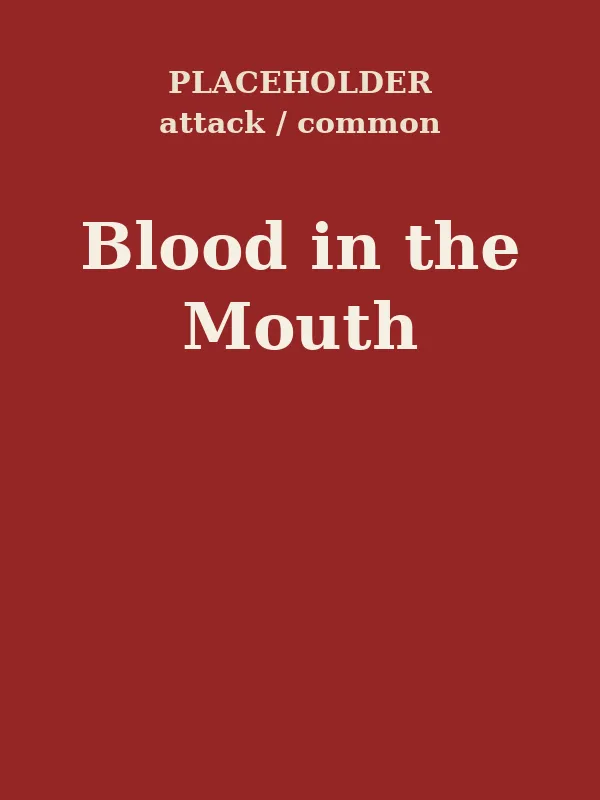
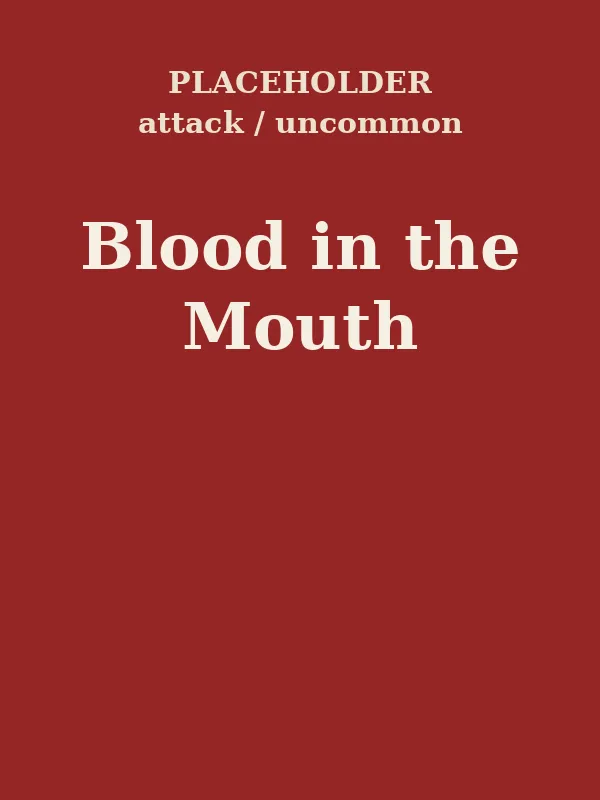
Pool 34, Producer calls 23:02 + Designer 23:18: Burn Through, Worn Grip, Ember Hide, Blood in the Mouth back to uncommon with their original numbers; Whirling Axe, Brutal Critical, Bearskin, Relentless Rage uncommon -> common; Old Scars + Ten Thousand Drills back to legendary (Drills cap 5); Read th

Changed region(s): [[0.24, 0.125, 0.63, 0.1875], [0.66, 0.125, 0.78, 0.1875]]

diff --git a/src/data.js b/src/data.js
@@ -123,7 +123,7 @@
       effects: [], power: { endTurnBlockToAll: 0.5 }, upgrade: { cost: 1 } },
     // F2 Maneuvers
     // Cost 3 (upgraded 2), not the planned 2/1: it simmed about 8 points above the other styles at cost 2 (Gamedev, Nov 3).
-    read_the_opening: { cls: 'fighter', name: 'Read the Opening', cost: 3, type: 'power', rarity: 'legendary', target: 'none',
+    read_the_opening: { cls: 'fighter', name: 'Read the Opening', cost: 3, type: 'power', rarity: 'rare', target: 'none',
       desc: 'The first hit you land each turn on a Prone or Frightened enemy deals double damage.',
       effects: [], power: { openingDouble: true }, upgrade: { cost: 2 } },
     // F3 Drill
@@ -131,9 +131,9 @@
       desc: 'Gain {0} Block. Draw {1} card.', effects: [{ t: 'block', n: 4 }, { t: 'draw', n: 1 }],
       upgrade: { effects: [{ t: 'block', n: 6 }, { t: 'draw', n: 1 }] } },
     // Cost 3 (upgraded 2), not the planned 2/1: about 6 points above the other styles at cost 2.
-    ten_thousand_drills: { cls: 'fighter', name: 'Ten Thousand Drills', cost: 3, type: 'power', rarity: 'rare', target: 'none',
-      desc: 'Whenever you play your third card in a turn, gain 1 Might (up to 4 a fight).',
-      effects: [], power: { thirdCardMight: 1, thirdCardMightCap: 4 }, upgrade: { cost: 2 } },
+    ten_thousand_drills: { cls: 'fighter', name: 'Ten Thousand Drills', cost: 3, type: 'power', rarity: 'legendary', target: 'none',
+      desc: 'Whenever you play your third card in a turn, gain 1 Might (up to 5 a fight).',
+      effects: [], power: { thirdCardMight: 1, thirdCardMightCap: 5 }, upgrade: { cost: 2 } },
     // F4 Tempo: three 0-cost commons (names and text by Lorekeeper) and the legendary. Hilt and Give Ground 5 (upgraded 7), not the
     // planned 3/5: at 3 they diluted random-pick decks (random 43.5% -> 32.7%).
     hilt_to_the_teeth: { cls: 'fighter', name: 'Hilt to the Teeth', cost: 0, type: 'attack', rarity: 'common', target: 'enemy',
@@ -143,19 +143,20 @@
     wait_for_it: { cls: 'fighter', name: 'Wait for It', cost: 0, type: 'skill', rarity: 'common', target: 'none', retain: true,
       desc: 'Draw {0} cards.', effects: [{ t: 'draw', n: 2 }],
       upgrade: { effects: [{ t: 'draw', n: 3 }] } },
-    no_wasted_motion: { cls: 'fighter', name: 'No Wasted Motion', cost: 2, type: 'power', rarity: 'legendary', target: 'none',
+    no_wasted_motion: { cls: 'fighter', name: 'No Wasted Motion', cost: 2, type: 'power', rarity: 'rare', target: 'none',
       desc: 'Whenever you play a 0-cost card, draw 1 card (up to 3 a turn).',
       effects: [], power: { zeroCostDraw: 1, zeroCostDrawPerTurn: 3 }, upgrade: { cost: 1 } },
     // F5 Old Soldier (healing)
     field_dressing: { cls: 'fighter', name: 'Field Dressing', cost: 1, type: 'skill', rarity: 'rare', target: 'none', retain: true, exhaust: true,
       desc: 'Heal {0} HP. Exhaust.', effects: [{ t: 'heal', n: 8 }], upgrade: { effects: [{ t: 'heal', n: 11 }] } },
-    old_scars: { cls: 'fighter', name: 'Old Scars', cost: 2, type: 'power', rarity: 'rare', target: 'none',
+    old_scars: { cls: 'fighter', name: 'Old Scars', cost: 2, type: 'power', rarity: 'legendary', target: 'none',
       desc: 'Whenever you heal, gain that much Block.',
       effects: [], power: { healToBlock: true }, upgrade: { cost: 1 } },
 
-    // ---- Pool 34 (card_pool_draft.md, Producer approved Nov 3 21:54; sims: Barbarian Burn Through 11, Worn Grip 14, Ember Hide 10,
-    // Blood in the Mouth 12 back as commons; Wizard Wish stays cost 3 upgraded, Time Stop 2 Energy): rarity pyramid 12 common / 9 uncommon / 6 rare /
-    // 3 legendary per hero. Old Scars and Ten Thousand Drills (cap 5 -> 4) moved legendary -> rare. Six new Fighter cards: ----
+    // ---- Pool 34 (card_pool_draft.md, Producer approved Nov 3 21:54, Producer calls 23:02): rarity pyramid 12 common /
+    // 9 uncommon / 6 rare / 3 legendary per hero. Barbarian: Whirling Axe, Brutal Critical, Bearskin, Relentless Rage down
+    // to common (Burn It Down cards stay uncommon, What's Left rare). Fighter: Read the Opening and No Wasted Motion down to
+    // rare (weakest legendaries in random-pick decks). Wizard: Wish cost 3 both ways, Time Stop 2 Energy + Retain (Designer 23:18). Six new Fighter cards: ----
     sweeping_attack: { cls: 'fighter', name: 'Sweeping Attack', cost: 1, type: 'attack', rarity: 'common', target: 'enemy',
       desc: 'Deal {0} damage. Deal {1} damage to a random enemy.', effects: [{ t: 'damage', n: 6 }, { t: 'damageRandom', n: 4 }] },
     evasive_footwork: { cls: 'fighter', name: 'Evasive Footwork', cost: 1, type: 'skill', rarity: 'common', target: 'none', retain: true,
@@ -196,13 +197,13 @@
       desc: 'Gain {0} Block.', effects: [{ t: 'block', n: 12 }] },
     shove: { cls: 'barbarian', name: 'Shove', cost: 1, type: 'attack', rarity: 'common', target: 'enemy',
       desc: 'Deal {0} damage. Apply {1} Prone.', effects: [{ t: 'damage', n: 7 }, { t: 'status', status: 'prone', n: 2, to: 'target' }] },
-    brutal_critical: { cls: 'barbarian', name: 'Brutal Critical', cost: 2, type: 'attack', rarity: 'uncommon', target: 'enemy',
+    brutal_critical: { cls: 'barbarian', name: 'Brutal Critical', cost: 2, type: 'attack', rarity: 'common', target: 'enemy',
       desc: 'Deal {0} damage. Deals 8 more while you have Rage.', effects: [{ t: 'damage', n: 15, rageBonus: 8 }] },
-    whirling_axe: { cls: 'barbarian', name: 'Whirling Axe', cost: 2, type: 'attack', rarity: 'uncommon', target: 'none',
+    whirling_axe: { cls: 'barbarian', name: 'Whirling Axe', cost: 2, type: 'attack', rarity: 'common', target: 'none',
       desc: 'Deal {0} damage to ALL enemies.', effects: [{ t: 'damageAll', n: 13 }] },
-    relentless_rage: { cls: 'barbarian', name: 'Relentless Rage', cost: 1, type: 'skill', rarity: 'uncommon', target: 'none', exhaust: true,
+    relentless_rage: { cls: 'barbarian', name: 'Relentless Rage', cost: 1, type: 'skill', rarity: 'common', target: 'none', exhaust: true,
       desc: 'Heal {0} HP. Gain {1} Rage. Exhaust.', effects: [{ t: 'heal', n: 10 }, { t: 'status', status: 'rage', n: 2, to: 'self' }] },
-    bear_totem: { cls: 'barbarian', name: 'Bearskin', cost: 1, type: 'power', rarity: 'uncommon', target: 'none',
+    bear_totem: { cls: 'barbarian', name: 'Bearskin', cost: 1, type: 'power', rarity: 'common', target: 'none',
       desc: 'Gain {0} Armor.', effects: [{ t: 'status', status: 'armor', n: 4, to: 'self' }] },
     retaliation: { cls: 'barbarian', name: 'Retaliation', cost: 1, type: 'power', rarity: 'uncommon', target: 'none',
       desc: 'Gain {0} Retaliate.', effects: [{ t: 'status', status: 'thorns', n: 3, to: 'self' }] },
@@ -259,9 +260,9 @@
     // written lines (keyword_use_v2, 14:20). Back in the pools (Producer 15:09, option a): the four former commons are
     // uncommon (they only pay off inside their deck styles) with a numbers pass (Barbarian sims, Tester's qa_bv2).
     // A card or relic can still be switched out of every pool with inPool: false (cardInPool / relicInPool).
-    burn_through: { cls: 'barbarian', name: 'Burn Through', cost: 1, type: 'skill', rarity: 'common', target: 'none', exhaust: true,
-      desc: 'Gain {0} Block. Exhaust.', effects: [{ t: 'block', n: 11 }],
-      upgrade: { effects: [{ t: 'block', n: 14 }] } },
+    burn_through: { cls: 'barbarian', name: 'Burn Through', cost: 1, type: 'skill', rarity: 'uncommon', target: 'none', exhaust: true,
+      desc: 'Gain {0} Block. Exhaust.', effects: [{ t: 'block', n: 9 }],
+      upgrade: { effects: [{ t: 'block', n: 12 }] } },
     kindling: { cls: 'barbarian', name: 'Kindling', cost: 1, type: 'power', rarity: 'uncommon', target: 'none',
       desc: 'Whenever a card Exhausts, gain 1 Rage.', effects: [], power: { onExhaust: [{ t: 'status', status: 'rage', n: 1, to: 'self' }] },
       upgrade: { cost: 0 } },
@@ -269,19 +270,19 @@
       desc: 'Deal {0} damage for each card Exhausted this fight.', effects: [{ t: 'damagePerExhausted', n: 3 }],
       upgrade: { effects: [{ t: 'damagePerExhausted', n: 4 }] } },
     // New keyword cards (keyword_use_v2 part 3): Fading, Last Word, Bloodied.
-    worn_grip: { cls: 'barbarian', name: 'Worn Grip', cost: 1, type: 'attack', rarity: 'common', target: 'enemy', fading: true,
-      desc: 'Deal {0} damage.', effects: [{ t: 'damage', n: 14 }],
-      upgrade: { effects: [{ t: 'damage', n: 17 }] } },
-    ember_hide: { cls: 'barbarian', name: 'Ember Hide', cost: 1, type: 'skill', rarity: 'common', target: 'none', exhaust: true,
-      desc: 'Gain {0} Block. Exhaust.', effects: [{ t: 'block', n: 10 }],
+    worn_grip: { cls: 'barbarian', name: 'Worn Grip', cost: 1, type: 'attack', rarity: 'uncommon', target: 'enemy', fading: true,
+      desc: 'Deal {0} damage.', effects: [{ t: 'damage', n: 12 }],
+      upgrade: { effects: [{ t: 'damage', n: 15 }] } },
+    ember_hide: { cls: 'barbarian', name: 'Ember Hide', cost: 1, type: 'skill', rarity: 'uncommon', target: 'none', exhaust: true,
+      desc: 'Gain {0} Block. Exhaust.', effects: [{ t: 'block', n: 8 }],
       lastWord: { desc: 'Gain {0} Rage.', effects: [{ t: 'status', status: 'rage', n: 2, to: 'self' }] },
-      upgrade: { effects: [{ t: 'block', n: 13 }] } },
+      upgrade: { effects: [{ t: 'block', n: 11 }] } },
     // Blood in the Mouth when Bloodied is ONE hit, Might counts once (Lorekeeper 13:25): addTo joins the first hit.
     // Upgraded: the Bloodied part goes 8 -> 11 (still one combined 21 hit).
-    blood_in_mouth: { cls: 'barbarian', name: 'Blood in the Mouth', cost: 1, type: 'attack', rarity: 'common', target: 'enemy',
-      desc: 'Deal {0} damage.', effects: [{ t: 'damage', n: 12 }],
+    blood_in_mouth: { cls: 'barbarian', name: 'Blood in the Mouth', cost: 1, type: 'attack', rarity: 'uncommon', target: 'enemy',
+      desc: 'Deal {0} damage.', effects: [{ t: 'damage', n: 10 }],
       bloodied: { desc: 'Deal {0} more.', effects: [{ t: 'damage', n: 8, addTo: 0 }] },
-      upgrade: { effects: [{ t: 'damage', n: 12 }], bloodied: { desc: 'Deal {0} more.', effects: [{ t: 'damage', n: 11, addTo: 0 }] } } },
+      upgrade: { effects: [{ t: 'damage', n: 10 }], bloodied: { desc: 'Deal {0} more.', effects: [{ t: 'damage', n: 11, addTo: 0 }] } } },
     last_one_standing: { cls: 'barbarian', name: 'Last One Standing', cost: 1, type: 'skill', rarity: 'uncommon', target: 'none',
       desc: 'Gain {0} Might.', effects: [{ t: 'status', status: 'might', n: 2, to: 'self' }],
       bloodied: { desc: 'Gain {0} more Might and draw {1} card.', effects: [{ t: 'status', status: 'might', n: 2, to: 'self' }, { t: 'draw', n: 1 }] },
@@ -363,7 +364,7 @@
       desc: 'Deal {0} damage. Apply {1} Poisoned.', effects: [{ t: 'damage', n: 8 }, { t: 'status', status: 'poisoned', n: 8, to: 'target' }] },
     meteor_swarm: { cls: 'wizard', kind: 'spell', name: 'Meteor Swarm', cost: 3, type: 'attack', rarity: 'legendary', target: 'none', exhaust: true,
       desc: 'Deal {0} damage to ALL enemies 3 times. Exhaust.', effects: [{ t: 'damageAll', n: 10, times: 3 }] },
-    time_stop: { cls: 'wizard', kind: 'spell', name: 'Time Stop', cost: 1, type: 'skill', rarity: 'legendary', target: 'none', exhaust: true,
+    time_stop: { cls: 'wizard', kind: 'spell', name: 'Time Stop', cost: 1, type: 'skill', rarity: 'legendary', target: 'none', retain: true, exhaust: true,
       desc: 'Gain {0} Energy. Draw {1} cards. Exhaust.', effects: [{ t: 'energy', n: 2 }, { t: 'draw', n: 2 }], upgrade: { cost: 0 } },
     wish: { cls: 'wizard', kind: 'spell', name: 'Wish', cost: 3, type: 'power', rarity: 'legendary', target: 'none', art: 'arcane_focus',
       desc: 'At the start of each of your turns, gain 1 Energy.',

diff --git a/test/keywords.js b/test/keywords.js
@@ -278,29 +278,29 @@ ok(!Object.values(D.CARDS).some(c => /\bBloodied\b/.test(c.name)), 'no card name
 const NEW = ['burn_through', 'kindling', 'whats_left', 'worn_grip', 'ember_hide', 'blood_in_mouth', 'last_one_standing'];
 for (const id of NEW) { const c = D.CARDS[id]; ok(c && c.cls === 'barbarian', id + ' is a Barbarian card'); ok(fs.existsSync(path.join(__dirname, '../assets/placeholder/placeholder_' + id + '.webp')), id + ' has placeholder art');
   ok(fs.readFileSync(path.join(__dirname, '../assets/placeholder/PLACEHOLDERS.md'), 'utf8').includes('`placeholder_' + id + '.webp`'), id + ' is listed in PLACEHOLDERS.md'); }
-eq(NEW.map(id => [D.CARDS[id].cost, D.CARDS[id].rarity, D.typeWord(D.CARDS[id], id)]), [[1, 'common', 'Defense'], [1, 'uncommon', 'Power'], [2, 'rare', 'Attack'], [1, 'common', 'Attack'], [1, 'common', 'Defense'], [1, 'common', 'Attack'], [1, 'uncommon', 'Buff']], 'costs and type words as in keyword_use_v2; pool 34 (Producer 21:54): the four former commons are common again, What\'s Left rare');
-// Blood in the Mouth (numbers pass 15:09: 10 / Bloodied 8 more; pool 34 sims: 12 / 8): Bloodied = ONE 20-damage hit, Might counts once
+eq(NEW.map(id => [D.CARDS[id].cost, D.CARDS[id].rarity, D.typeWord(D.CARDS[id], id)]), [[1, 'uncommon', 'Defense'], [1, 'uncommon', 'Power'], [2, 'rare', 'Attack'], [1, 'uncommon', 'Attack'], [1, 'uncommon', 'Defense'], [1, 'uncommon', 'Attack'], [1, 'uncommon', 'Buff']], 'costs and type words as in keyword_use_v2; the four former commons are uncommon (Producer 15:09 option a); What\'s Left rare (pool 34)');
+// Blood in the Mouth (numbers pass 15:09: 10 / Bloodied 8 more): Bloodied = ONE 18-damage hit, Might counts once
 { const { s, p } = fresh(), e = s.enemies[0]; p.hp = Math.floor(p.maxHp / 2); p.statuses.might = 3; const c = give(p, 'blood_in_mouth'); const { ev } = play(s, p, c, e);
-  eq(e.maxHp - e.hp, 20 + 3, 'Bloodied Blood in the Mouth: 20 + Might once'); eq(ev.filter(x => x.kind === 'hit').map(x => x.amount), [23], 'ONE hit of 23'); }
-{ const { s, p } = fresh(), e = s.enemies[0]; e.statuses.prone = 2; p.hp = 10; const c = give(p, 'blood_in_mouth'); play(s, p, c, e); eq(e.maxHp - e.hp, Math.floor(20 * 1.5), 'one hit: Prone applies to 20 once (30)'); }
-{ const { s, p } = fresh(), e = s.enemies[0]; const c = give(p, 'blood_in_mouth'); play(s, p, c, e); eq(e.maxHp - e.hp, 12, 'not Bloodied: 12'); }
-{ const { s, p } = fresh(), e = s.enemies[0]; p.hp = 10; const c = give(p, 'blood_in_mouth', true); const { ev } = play(s, p, c, e); eq(ev.filter(x => x.kind === 'hit').map(x => x.amount), [12 + 11], 'Blood in the Mouth+: Bloodied adds 11, still one combined hit (23)'); }
-eq([E.cardText(null, null, { id: 'blood_in_mouth' }), E.cardLines(null, null, { id: 'blood_in_mouth' }).bloodied], ['Deal 12 damage.', 'Deal 8 more.'], "card text 'Deal 12 damage.' / 'Bloodied: Deal 8 more.'");
+  eq(e.maxHp - e.hp, 18 + 3, 'Bloodied Blood in the Mouth: 18 + Might once'); eq(ev.filter(x => x.kind === 'hit').map(x => x.amount), [21], 'ONE hit of 21'); }
+{ const { s, p } = fresh(), e = s.enemies[0]; e.statuses.prone = 2; p.hp = 10; const c = give(p, 'blood_in_mouth'); play(s, p, c, e); eq(e.maxHp - e.hp, Math.floor(18 * 1.5), 'one hit: Prone applies to 18 once (27)'); }
+{ const { s, p } = fresh(), e = s.enemies[0]; const c = give(p, 'blood_in_mouth'); play(s, p, c, e); eq(e.maxHp - e.hp, 10, 'not Bloodied: 10'); }
+{ const { s, p } = fresh(), e = s.enemies[0]; p.hp = 10; const c = give(p, 'blood_in_mouth', true); const { ev } = play(s, p, c, e); eq(ev.filter(x => x.kind === 'hit').map(x => x.amount), [10 + 11], 'Blood in the Mouth+: Bloodied adds 11, still one combined hit (21)'); }
+eq([E.cardText(null, null, { id: 'blood_in_mouth' }), E.cardLines(null, null, { id: 'blood_in_mouth' }).bloodied], ['Deal 10 damage.', 'Deal 8 more.'], "card text 'Deal 10 damage.' / 'Bloodied: Deal 8 more.'");
 { const { s, p } = fresh(), e = s.enemies[0]; p.statuses.might = 2; eq(E.cardLines(s, p, { id: 'blood_in_mouth', uid: 'b' }, e.uid).bloodied, 'Deal 8 more.', 'the Bloodied 8 is not shown with Might added (Might counts once)'); }
 // Last One Standing
 { const { s, p } = fresh(); p.hp = 10; const before = p.hand.length; const c = give(p, 'last_one_standing'); play(s, p, c, null); eq([p.statuses.might, p.hand.length], [4, before + 1], 'Bloodied Last One Standing: 4 Might, draw 1'); }
 { const { s, p } = fresh(); const c = give(p, 'last_one_standing'); play(s, p, c, null); eq(p.statuses.might, 2, 'not Bloodied: 2 Might'); }
-// Worn Grip: 14, 13, 12 ... then Exhausts at 0 (12 before the pool 34 sims)
-{ const { s, p } = fresh(), e = s.enemies[0], c = give(p, 'worn_grip'), hits = []; for (let i = 0; i < 14; i++) { if (i) p.hand.push(p.discard.splice(p.discard.indexOf(c), 1)[0]); const h = e.hp; play(s, p, c, e); hits.push(h - e.hp); }
-  eq(hits, [14, 13, 12, 11, 10, 9, 8, 7, 6, 5, 4, 3, 2, 1], 'Worn Grip fades 14..1'); eq(where(p, c), ['exhaust'], 'then Exhausts'); }
+// Worn Grip: 12, 11, 10 ... then Exhausts at 0
+{ const { s, p } = fresh(), e = s.enemies[0], c = give(p, 'worn_grip'), hits = []; for (let i = 0; i < 12; i++) { if (i) p.hand.push(p.discard.splice(p.discard.indexOf(c), 1)[0]); const h = e.hp; play(s, p, c, e); hits.push(h - e.hp); }
+  eq(hits, [12, 11, 10, 9, 8, 7, 6, 5, 4, 3, 2, 1], 'Worn Grip fades 12..1'); eq(where(p, c), ['exhaust'], 'then Exhausts'); }
 // Ember Hide, Burn Through
-{ const { s, p } = fresh(), c = give(p, 'ember_hide'); play(s, p, c, null); eq([p.block, p.statuses.rage, where(p, c)[0]], [10, 2, 'exhaust'], 'Ember Hide: 10 Block, Exhaust, Last Word 2 Rage'); }
-{ const { s, p } = fresh(), c = give(p, 'burn_through'); play(s, p, c, null); eq([p.block, where(p, c)[0], p.fightExhausted], [11, 'exhaust', 1], 'Burn Through: 11 Block, Exhaust, counted'); }
+{ const { s, p } = fresh(), c = give(p, 'ember_hide'); play(s, p, c, null); eq([p.block, p.statuses.rage, where(p, c)[0]], [8, 2, 'exhaust'], 'Ember Hide: 8 Block, Exhaust, Last Word 2 Rage'); }
+{ const { s, p } = fresh(), c = give(p, 'burn_through'); play(s, p, c, null); eq([p.block, where(p, c)[0], p.fightExhausted], [9, 'exhaust', 1], 'Burn Through: 9 Block, Exhaust, counted'); }
 // Kindling: every Exhaust gives 1 Rage per copy; not on Vanish; Fading-out and Last Word cards count
 { const { s, p } = fresh(), k = give(p, 'kindling'); play(s, p, k, null); ok(p.powers.includes(k), 'Kindling stays in play');
   play(s, p, give(p, 'burn_through'), null); eq(p.statuses.rage, 1, 'Kindling: an Exhaust gives 1 Rage');
   play(s, p, give(p, 'ember_hide'), null); eq(p.statuses.rage, 1 + 1 + 2, 'Kindling + Ember Hide Last Word: 1 + 2 Rage');
-  const w = give(p, 'worn_grip'); w.fightPlays = 13; play(s, p, w, s.enemies[0]); eq(p.statuses.rage, 5, 'a Fading card at 0 Exhausts and triggers Kindling');
+  const w = give(p, 'worn_grip'); w.fightPlays = 11; play(s, p, w, s.enemies[0]); eq(p.statuses.rage, 5, 'a Fading card at 0 Exhausts and triggers Kindling');
   play(s, p, give(p, 'kindling'), null); play(s, p, give(p, 'burn_through'), null); eq(p.statuses.rage, 7, 'two Kindlings: 2 Rage per Exhaust');
   const r0 = p.statuses.rage; give(p, 'kw_van'); E.dispatch(s, { type: 'END_TURN', player: p.uid }); E.takeEvents(s); ok(p.exhaust.some(x => x.id === 'kw_van'), 'a card vanished');
   ok((p.statuses.rage || 0) <= r0, 'Vanish is not an Exhaust: no Kindling Rage'); eq(p.fightExhausted, 4, 'Vanish not counted as Exhausted'); }
@@ -340,12 +340,12 @@ NEW.forEach(id => { delete D.CARDS[id].inPool; }); delete D.RELICS.ash_bracer.in
   ok(hit > 0, 'with the switch off the card is in the reward pool (' + hit + '/200)'); }
 // Upgrade lines: Lorekeeper 14:20, numbers moved with the 15:09 pass (Burn Through, Worn Grip, Ember Hide, Blood in the Mouth)
 eq(['burn_through', 'kindling', 'whats_left', 'worn_grip', 'ember_hide', 'blood_in_mouth', 'last_one_standing'].map(id => [E.cardDef({ id, up: true }).cost, E.cardText(null, null, { id, up: true }), E.cardLines(null, null, { id, up: true })]),
-  [[1, 'Gain «+14» Block. Exhaust.', { bloodied: null, lastWord: null }], [0, 'Whenever a card Exhausts, gain 1 Rage.', { bloodied: null, lastWord: null }],
-   [2, 'Deal «+4» damage for each card Exhausted this fight.', { bloodied: null, lastWord: null }], [1, 'Deal «+17» damage.', { bloodied: null, lastWord: null }],
-   [1, 'Gain «+13» Block. Exhaust.', { bloodied: null, lastWord: 'Gain 2 Rage.' }], [1, 'Deal 12 damage.', { bloodied: 'Deal «+11» more.', lastWord: null }],
+  [[1, 'Gain «+12» Block. Exhaust.', { bloodied: null, lastWord: null }], [0, 'Whenever a card Exhausts, gain 1 Rage.', { bloodied: null, lastWord: null }],
+   [2, 'Deal «+4» damage for each card Exhausted this fight.', { bloodied: null, lastWord: null }], [1, 'Deal «+15» damage.', { bloodied: null, lastWord: null }],
+   [1, 'Gain «+11» Block. Exhaust.', { bloodied: null, lastWord: 'Gain 2 Rage.' }], [1, 'Deal 10 damage.', { bloodied: 'Deal «+11» more.', lastWord: null }],
    [1, 'Gain «+3» Might.', { bloodied: 'Gain 2 more Might and draw 1 card.', lastWord: null }]], 'upgraded texts');
 { const { s, p } = fresh(); p.hp = 10; play(s, p, give(p, 'last_one_standing', true), null); eq(p.statuses.might, 5, 'Last One Standing+ Bloodied: 3 + 2 Might'); }
-{ const { s, p } = fresh(); play(s, p, give(p, 'ember_hide', true), null); eq([p.block, p.statuses.rage], [13, 2], 'Ember Hide+: 13 Block, Last Word unchanged'); }
+{ const { s, p } = fresh(); play(s, p, give(p, 'ember_hide', true), null); eq([p.block, p.statuses.rage], [11, 2], 'Ember Hide+: 11 Block, Last Word unchanged'); }
 // damageRandom (for Parting Shot's Last Word): one hit on a random targetable enemy, no target on the card
 Object.assign(D.CARDS, { kwr_parting: blk({ cls: 'fighter', vanish: true, desc: 'Gain {0} Block.', effects: [{ t: 'block', n: 3 }], lastWord: { desc: 'Deal {0} damage to a random enemy.', effects: [{ t: 'damageRandom', n: 8 }] } }) });
 ok(D.checkKeywordData({ kwr_parting: D.CARDS.kwr_parting }) === true, 'a Last Word with damageRandom passes the data check');

diff --git a/test/pool34.js b/test/pool34.js
@@ -18,13 +18,17 @@ const st = Object.entries(D.CARDS).filter(([, c]) => c.rarity === 'starter');
 eq(crypto.createHash('md5').update(JSON.stringify(st)).digest('hex'), 'd8108b41fc2d1b772f79247b3e59592e', 'starter card definitions are byte-for-byte the 4e6fcb1 ones');
 // ---- re-tiers ----
 const R = (id) => D.CARDS[id].rarity;
-eq(['burn_through', 'worn_grip', 'ember_hide', 'blood_in_mouth'].map(R), ['common', 'common', 'common', 'common'], 'Barbarian: four uncommons back to common');
-// sims (one numbers pass): Burn Through 9->11 (up 14), Worn Grip 12->14 (up 17), Ember Hide 8->10 (up 13), Blood in the Mouth 10->12 (up 12, Bloodied 8 / 11 unchanged)
-eq(['burn_through', 'worn_grip', 'ember_hide', 'blood_in_mouth'].map(id => [D.CARDS[id].effects[0].n, E.cardDef({ id, up: true }).effects[0].n]), [[11, 14], [14, 17], [10, 13], [12, 12]], 'Barbarian re-tiered commons: numbers');
+// Producer 23:02: the Burn It Down cards stay uncommon with their 4e6fcb1 numbers; four plain uncommons drop to common, numbers unchanged
+eq(['burn_through', 'worn_grip', 'ember_hide', 'blood_in_mouth'].map(R), ['uncommon', 'uncommon', 'uncommon', 'uncommon'], 'Barbarian: Burn It Down cards stay uncommon');
+eq(['burn_through', 'worn_grip', 'ember_hide', 'blood_in_mouth'].map(id => [D.CARDS[id].effects[0].n, E.cardDef({ id, up: true }).effects[0].n]), [[9, 12], [12, 15], [8, 11], [10, 10]], 'Burn It Down cards: original numbers');
+eq(['whirling_axe', 'brutal_critical', 'bear_totem', 'relentless_rage'].map(R), ['common', 'common', 'common', 'common'], 'Whirling Axe, Brutal Critical, Bearskin, Relentless Rage uncommon -> common');
+eq(['whirling_axe', 'brutal_critical', 'bear_totem', 'relentless_rage'].map(id => [D.CARDS[id].cost, D.CARDS[id].effects[0].n]), [[2, 13], [2, 15], [1, 4], [1, 10]], 'their numbers unchanged');
 eq(R('whats_left'), 'rare', "What's Left uncommon -> rare");
-eq([R('old_scars'), R('ten_thousand_drills')], ['rare', 'rare'], 'Old Scars and Ten Thousand Drills legendary -> rare');
-eq([D.CARDS.ten_thousand_drills.power.thirdCardMightCap, D.CARDS.ten_thousand_drills.cost, E.cardDef({ id: 'ten_thousand_drills', up: true }).cost], [4, 3, 2], 'Drills: cap 4 (was 5), cost 3 / upgraded 2');
-ok(/up to 4 a fight/.test(D.CARDS.ten_thousand_drills.desc), 'Drills text says up to 4');
+eq([R('old_scars'), R('ten_thousand_drills'), R('the_wall_holds')], ['legendary', 'legendary', 'legendary'], 'Fighter legendaries: The Wall Holds, Old Scars, Ten Thousand Drills');
+eq([R('read_the_opening'), R('no_wasted_motion')], ['rare', 'rare'], 'Read the Opening and No Wasted Motion legendary -> rare');
+eq([D.CARDS.read_the_opening.cost, E.cardDef({ id: 'read_the_opening', up: true }).cost, D.CARDS.no_wasted_motion.cost, E.cardDef({ id: 'no_wasted_motion', up: true }).cost], [3, 2, 2, 1], 'their costs unchanged');
+eq([D.CARDS.ten_thousand_drills.power.thirdCardMightCap, D.CARDS.ten_thousand_drills.cost, E.cardDef({ id: 'ten_thousand_drills', up: true }).cost], [5, 3, 2], 'Drills: cap 5 again, cost 3 / upgraded 2');
+ok(/up to 5 a fight/.test(D.CARDS.ten_thousand_drills.desc), 'Drills text says up to 5');
 // ---- new cards: id, cost/upgraded cost, rarity, kind, base text, upgraded text ----
 const NEW = {
   sweeping_attack: [1, 1, 'common', '', 'Deal 6 damage. Deal 4 damage to a random enemy.', 'Deal 9 damage. Deal 4 damage to a random enemy.'],
@@ -46,7 +50,7 @@ const NEW = {
   wall_of_force: [2, 2, 'rare', 'spell', 'Gain 20 Block. Exhaust.', 'Gain 23 Block. Exhaust.'],
   blight: [2, 2, 'rare', 'spell', 'Deal 8 damage. Apply 8 Poisoned.', 'Deal 11 damage. Apply 9 Poisoned.'],
   meteor_swarm: [3, 3, 'legendary', 'spell', 'Deal 10 damage to ALL enemies 3 times. Exhaust.', 'Deal 11 damage to ALL enemies 3 times. Exhaust.'],
-  time_stop: [1, 0, 'legendary', 'spell', 'Gain 2 Energy. Draw 2 cards. Exhaust.', 'Gain 2 Energy. Draw 2 cards. Exhaust.'],   // 3 -> 2 Energy after the sims
+  time_stop: [1, 0, 'legendary', 'spell', 'Gain 2 Energy. Draw 2 cards. Exhaust.', 'Gain 2 Energy. Draw 2 cards. Exhaust.'],   // 3 -> 2 Energy + Retain (Designer 23:18)
   wish: [3, 3, 'legendary', 'spell', 'At the start of each of your turns, gain 1 Energy.', 'At the start of each of your turns, gain 1 Energy.'],
 };
 const plain = (t) => t.replace(/«[+-]?(\d+)»/g, '$1');
@@ -75,6 +79,7 @@ const play = (s, p, c, t) => { const r = E.dispatch(s, { type: 'PLAY_CARD', play
   eq(ev.filter(x => x.kind === 'hit').length, 2, 'Lightning Bolt: two hits'); eq(L.reduce((a, e, i) => a + hp[i] - e.hp, 0), 18, 'Lightning Bolt: 9 + 9'); }
 { const { s, p } = fight('wizard'); const h0 = p.hand.length; p.draw.push({ uid: 'd1', id: 'fire_bolt' }, { uid: 'd2', id: 'fire_bolt' }); p.energy = 1;
   const c = give(p, 'time_stop'); play(s, p, c, null); eq([p.energy, p.hand.length, (p.exhaust || []).includes(c)], [2, h0 + 2, true], 'Time Stop: 1 - 1 + 2 Energy, draw 2, Exhaust'); }
+eq([D.CARDS.time_stop.retain, E.cardDef({ id: 'time_stop', up: true }).retain, D.keywordLines(D.CARDS.time_stop).join()], [true, true, 'Spell,Retain'], 'Time Stop: Retain (base and upgraded)');
 { const { s, p } = fight('wizard'); play(s, p, give(p, 'wish'), null); ok((p.powers || []).some(c => c.id === 'wish'), 'Wish stays in play');
   E.dispatch(s, { type: 'END_TURN', player: p.uid }); E.takeEvents(s); ok(s.phase === 'combat', 'still in combat'); eq(p.energy, p.maxEnergy + 1, 'Wish: +1 Energy at the start of the next turn'); }
 // ---- boss rewards: the Wizard now has legendaries, so her boss pick is legendary-only like the other two ----

diff --git a/test/deckstyles.js b/test/deckstyles.js
@@ -199,8 +199,8 @@ const mine = (ev, p) => ev.filter(x => x.kind === 'hit' && x.source === p.uid &&
 { const b = (id) => D.CARDS[id], u = (id) => E.cardDef({ id, up: true });
   ok(FNEW.every(id => b(id) && b(id).cls === 'fighter'), 'all ten new Fighter cards exist');
   ok(['the_wall_holds', 'read_the_opening', 'ten_thousand_drills', 'no_wasted_motion', 'old_scars'].every(id => b(id).type === 'power'), 'five Powers');
-  // Pool 34 (Producer 21:54): Old Scars and Ten Thousand Drills legendary -> rare; the other three stay legendary.
-  ok(['the_wall_holds', 'read_the_opening', 'no_wasted_motion'].every(id => b(id).rarity === 'legendary') && ['ten_thousand_drills', 'old_scars'].every(id => b(id).rarity === 'rare'), 'three legendary Powers, Drills and Old Scars rare');
+  // Pool 34 (Producer 23:02): Read the Opening and No Wasted Motion legendary -> rare; The Wall Holds, Drills, Old Scars stay legendary.
+  ok(['the_wall_holds', 'ten_thousand_drills', 'old_scars'].every(id => b(id).rarity === 'legendary') && ['read_the_opening', 'no_wasted_motion'].every(id => b(id).rarity === 'rare'), 'three legendary Powers, Read the Opening and No Wasted Motion rare');
   ok(['the_wall_holds', 'no_wasted_motion', 'old_scars'].every(id => b(id).cost === 2 && u(id).cost === 1), 'The Wall Holds, No Wasted Motion, Old Scars: cost 2, upgraded 1');
   ok(['read_the_opening', 'ten_thousand_drills'].every(id => b(id).cost === 3 && u(id).cost === 2), 'Read the Opening, Ten Thousand Drills: cost 3, upgraded 2 (balance nudge)');
   ok(['hilt_to_the_teeth', 'give_ground', 'wait_for_it'].every(id => b(id).rarity === 'common' && b(id).cost === 0), 'three 0-cost Tempo commons');
@@ -211,7 +211,7 @@ const mine = (ev, p) => ev.filter(x => x.kind === 'hit' && x.source === p.uid &&
   ok(E.cardText(null, null, { id: 'wait_for_it', up: true }) === 'Draw «+3» cards.', 'Wait for It+ text: ' + E.cardText(null, null, { id: 'wait_for_it', up: true }));
   ok(b('form_and_repeat').cost === 0 && b('form_and_repeat').effects.map(f => f.n).join() === '4,1' && u('form_and_repeat').effects.map(f => f.n).join() === '6,1', 'Form and Repeat 0: 4 Block draw 1 (upgraded 6)');
   ok(b('field_dressing').cost === 1 && b('field_dressing').retain && b('field_dressing').exhaust && b('field_dressing').effects[0].n === 8 && u('field_dressing').effects[0].n === 11, 'Field Dressing 1: heal 8, Retain, Exhaust (upgraded 11)');
-  ok(b('ten_thousand_drills').power.thirdCardMightCap === 4 && u('ten_thousand_drills').power.thirdCardMightCap === 4 && u('no_wasted_motion').power.zeroCostDrawPerTurn === 3, 'caps never change on upgrade (Drills 4 since pool 34, No Wasted Motion 3 a turn)');
+  ok(b('ten_thousand_drills').power.thirdCardMightCap === 5 && u('ten_thousand_drills').power.thirdCardMightCap === 5 && u('no_wasted_motion').power.zeroCostDrawPerTurn === 3, 'caps never change on upgrade (Drills 5, No Wasted Motion 3 a turn)');
   for (const id of FNEW) { ok(!/\{\d\}/.test(E.cardText(null, null, { id })) && !/\{\d\}/.test(E.cardText(null, null, { id, up: true })), id + ' text fills in'); ok(u(id).name === b(id).name + '+', id + '+ named'); }
   for (let seed = 1; seed <= 300; seed++) { const f = E.newGame({ seed, heroes: ['fighter'] }); ok(E.rollCardRewards(f, f.players[0], 3, 'boss').every(id => D.CARDS[id].rarity === 'legendary'), 'Fighter boss rewards are legendary now'); }
   for (let seed = 1; seed <= 300; seed++) { const f = E.newGame({ seed, heroes: ['fighter'] }); ok(E.rollCardRewards(f, f.players[0], 3, 'fight').every(id => D.CARDS[id].rarity !== 'legendary'), 'no legendaries outside boss rewards'); }
@@ -235,12 +235,12 @@ const mine = (ev, p) => ev.filter(x => x.kind === 'hit' && x.source === p.uid &&
 { const { s, p, e } = ffight(); play(s, p, 'read_the_opening', false); e.statuses.prone = 2;
   const h = mine(play(s, p, 'whirlwind', false).ev, p); ok(h.map(x => x.amount).join() === '14,7', 'Whirlwind 5x2 on Prone: 7 -> 14 first hit only, then 7'); }
 { const { s, p, e } = ffight(); e.statuses.prone = 2; ok(mine(play(s, p, 'strike', false, e).ev, p)[0].amount === 9, 'without the Power, Prone is the usual x1.5'); }
-// ---------- F3 Ten Thousand Drills: the third card each turn gives 1 Might, up to 4 a fight (5 before pool 34) ----------
+// ---------- F3 Ten Thousand Drills: the third card each turn gives 1 Might, up to 5 a fight ----------
 { const { s, p, e } = ffight(); play(s, p, 'ten_thousand_drills', false); play(s, p, 'defend', false);
   ok(!p.statuses.might, 'two cards played: no Might yet'); play(s, p, 'defend', false); ok(p.statuses.might === 1, 'third card (the Power counts as the first): 1 Might');
   play(s, p, 'defend', false); play(s, p, 'defend', false); play(s, p, 'defend', false); ok(p.statuses.might === 1, 'only the third card each turn');
   for (let t = 0; t < 7; t++) { enemyHits(s, e, 0, 1); endTurn(s, p); p.hand = []; for (let i = 0; i < 3; i++) play(s, p, 'defend', false); }
-  ok(p.statuses.might === 4, 'capped at 4 Might from Drills in a fight: ' + p.statuses.might);
+  ok(p.statuses.might === 5, 'capped at 5 Might from Drills in a fight: ' + p.statuses.might);
   E.startEncounter(s, 'rat_swarm'); E.takeEvents(s); ok(!p.fightFx.drillMight, 'the cap resets next fight'); }
 // ---------- F4 No Wasted Motion: draw 1 on each 0-cost card, up to 3 a turn ----------
 { const { s, p, e } = ffight(); play(s, p, 'no_wasted_motion', false); const d0 = p.draw.length;

diff --git a/assets/placeholder/PLACEHOLDERS.md b/assets/placeholder/PLACEHOLDERS.md
@@ -8,15 +8,15 @@ To swap one out: add the real `assets/card_<card id>.webp` (it wins automaticall
 | File | Card id | What it is for |
 |---|---|---|
 | `placeholder_the_wall_holds.webp` | `the_wall_holds` | The Wall Holds: fighter legendary power card illustration (attack frame) |
-| `placeholder_read_the_opening.webp` | `read_the_opening` | Read the Opening: fighter legendary power card illustration (attack frame) |
+| `placeholder_read_the_opening.webp` | `read_the_opening` | Read the Opening: fighter rare power card illustration (attack frame) |
 | `placeholder_form_and_repeat.webp` | `form_and_repeat` | Form and Repeat: fighter rare skill card illustration (defense frame) |
-| `placeholder_ten_thousand_drills.webp` | `ten_thousand_drills` | Ten Thousand Drills: fighter rare power card illustration (buff frame) |
+| `placeholder_ten_thousand_drills.webp` | `ten_thousand_drills` | Ten Thousand Drills: fighter legendary power card illustration (buff frame) |
 | `placeholder_hilt_to_the_teeth.webp` | `hilt_to_the_teeth` | Hilt to the Teeth: fighter common attack card illustration (attack frame) |
 | `placeholder_give_ground.webp` | `give_ground` | Give Ground: fighter common skill card illustration (defense frame) |
 | `placeholder_wait_for_it.webp` | `wait_for_it` | Wait for It: fighter common skill card illustration (utility frame) |
-| `placeholder_no_wasted_motion.webp` | `no_wasted_motion` | No Wasted Motion: fighter legendary power card illustration (utility frame) |
+| `placeholder_no_wasted_motion.webp` | `no_wasted_motion` | No Wasted Motion: fighter rare power card illustration (utility frame) |
 | `placeholder_field_dressing.webp` | `field_dressing` | Field Dressing: fighter rare skill card illustration (utility frame) |
-| `placeholder_old_scars.webp` | `old_scars` | Old Scars: fighter rare power card illustration (defense frame) |
+| `placeholder_old_scars.webp` | `old_scars` | Old Scars: fighter legendary power card illustration (defense frame) |
 | `placeholder_headbutt.webp` | `headbutt` | Headbutt: barbarian common attack card illustration (attack frame) |
 | `placeholder_wild_swing.webp` | `wild_swing` | Wild Swing: barbarian common attack card illustration (attack frame) |
 | `placeholder_goad.webp` | `goad` | Goad: barbarian uncommon attack card illustration (attack frame) |
@@ -27,12 +27,12 @@ To swap one out: add the real `assets/card_<card id>.webp` (it wins automaticall
 | `placeholder_scar_tissue.webp` | `scar_tissue` | Scar Tissue: barbarian rare power card illustration (defense frame) |
 | `placeholder_bear_beneath.webp` | `bear_beneath` | The Bear Beneath: barbarian legendary power card illustration (defense frame) |
 | `placeholder_acid.webp` | `acid` | Acid: curse status card illustration (status frame); also Acid Splash (`acid_splash`, wizard common attack, `art: 'acid'`, pool 34) |
-| `placeholder_burn_through.webp` | `burn_through` | Burn Through: barbarian common skill card illustration (defense frame) |
+| `placeholder_burn_through.webp` | `burn_through` | Burn Through: barbarian uncommon skill card illustration (defense frame) |
 | `placeholder_kindling.webp` | `kindling` | Kindling: barbarian uncommon power card illustration (buff frame) |
 | `placeholder_whats_left.webp` | `whats_left` | What's Left: barbarian rare attack card illustration (attack frame) |
-| `placeholder_worn_grip.webp` | `worn_grip` | Worn Grip: barbarian common attack card illustration (attack frame) |
-| `placeholder_ember_hide.webp` | `ember_hide` | Ember Hide: barbarian common skill card illustration (defense frame) |
-| `placeholder_blood_in_mouth.webp` | `blood_in_mouth` | Blood in the Mouth: barbarian common attack card illustration (attack frame) |
+| `placeholder_worn_grip.webp` | `worn_grip` | Worn Grip: barbarian uncommon attack card illustration (attack frame) |
+| `placeholder_ember_hide.webp` | `ember_hide` | Ember Hide: barbarian uncommon skill card illustration (defense frame) |
+| `placeholder_blood_in_mouth.webp` | `blood_in_mouth` | Blood in the Mouth: barbarian uncommon attack card illustration (attack frame) |
 | `placeholder_last_one_standing.webp` | `last_one_standing` | Last One Standing: barbarian uncommon skill card illustration (buff frame) |
 | `placeholder_fireball_starter.webp` | `fireball_starter` | Fireball: wizard starter attack card illustration (attack frame) |
 | `placeholder_echo.webp` | `echo` | Echo: curse status card illustration (status frame) |
